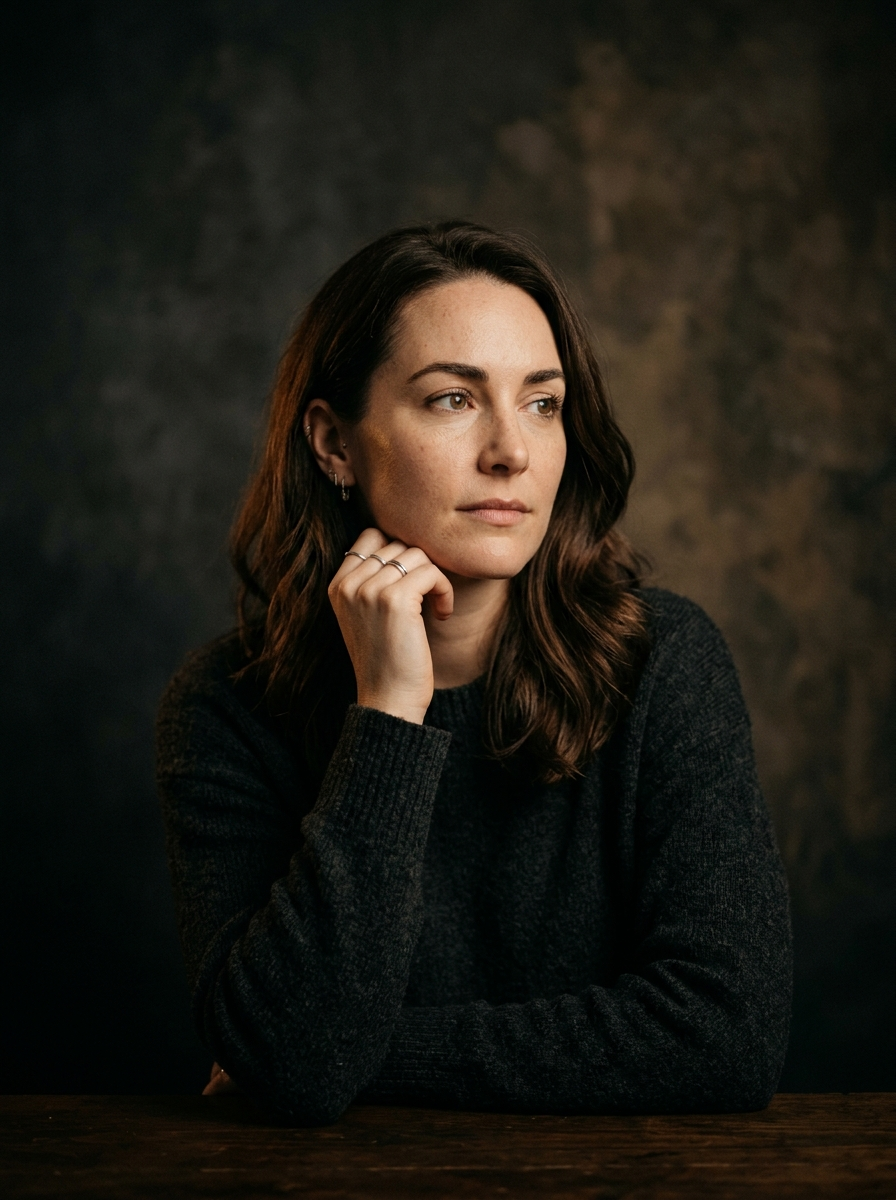
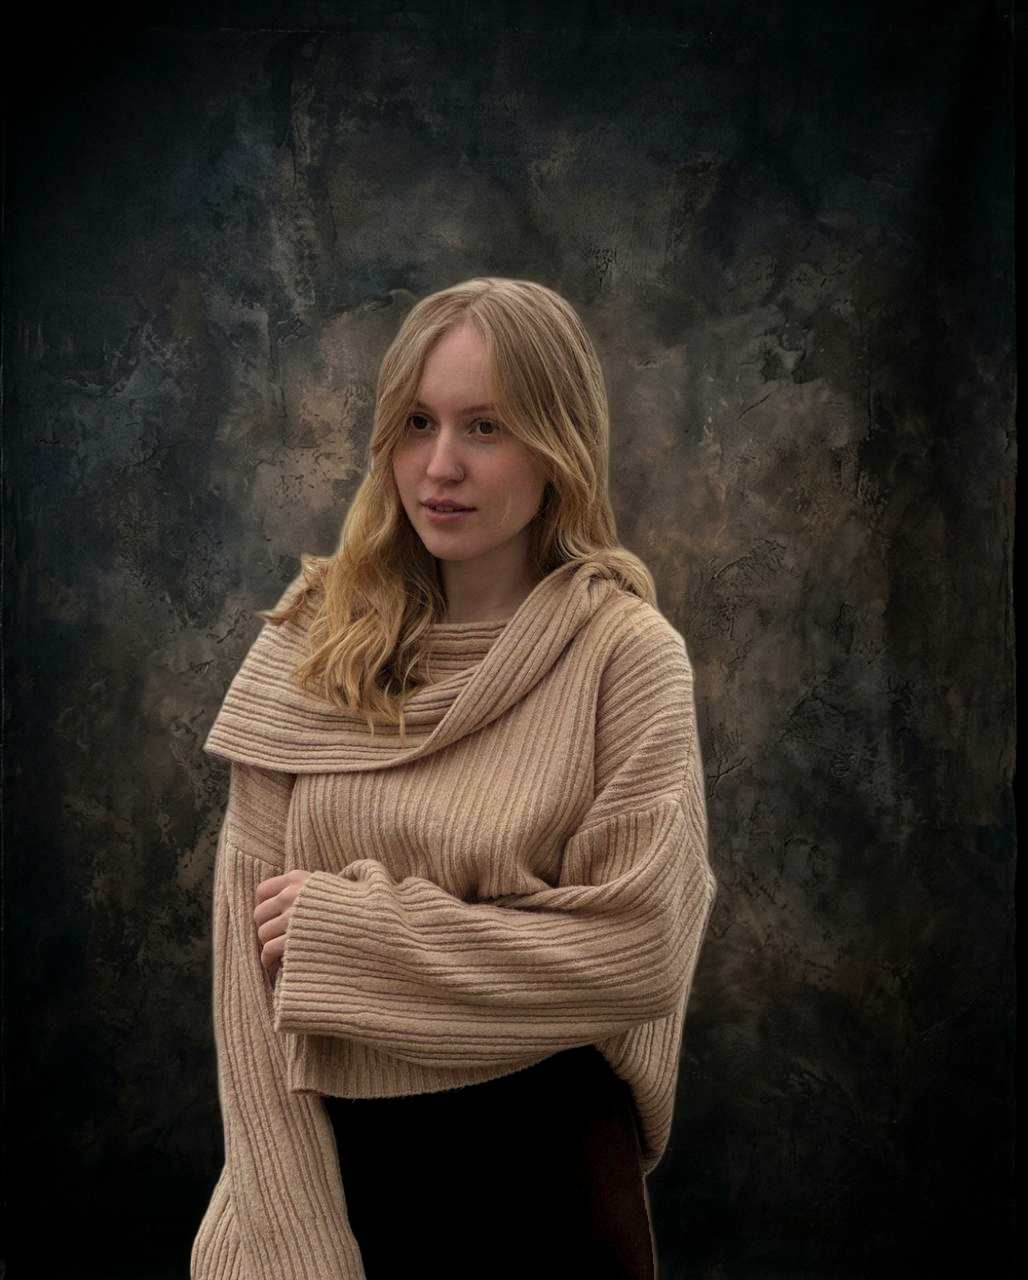
base 4

diff --git a/src/components/sections/HeroSection.css b/src/components/sections/HeroSection.css
@@ -137,13 +137,23 @@
   width: 100%;
   height: 520px;
   object-fit: cover;
+  object-position: center 15%;
   transition: transform 0.8s var(--ease-smooth);
 }
 
 @media (max-width: 768px) {
   .hero-image {
-    height: 380px;
+    height: 420px;
+    object-position: center 12%;
   }
+}
+
+.hero-image-frame::after {
+  content: '';
+  position: absolute;
+  inset: 0;
+  background: linear-gradient(to bottom, transparent 65%, rgba(21, 20, 18, 0.45) 100%);
+  pointer-events: none;
 }
 
 .hero-image-frame:hover .hero-image {

diff --git a/src/data/courseData.ts b/src/data/courseData.ts
@@ -212,7 +212,7 @@ export const COURSE_CONTENT = {
   },
   finalCta: {
     title: "Готова начать путь к себе?",
-    instruction: "Напиши мне «АГРЕССИЯ» в директ или перейди по ссылке в шапке профиля.",
-    ctaText: "Написать в директ"
+    instruction: "Нажимай на кнопку и приобретай полную версию курса.",
+    ctaText: "Купить курс"
   }
 };

diff --git a/scripts/composite_portrait.py b/scripts/composite_portrait.py
@@ -1,0 +1,78 @@
+import os
+import numpy as np
+from PIL import Image, ImageFilter, ImageEnhance
+from scipy.ndimage import gaussian_filter
+
+def main():
+    os.environ["U2NET_HOME"] = os.path.abspath(r".venv\rembg_cache")
+    import rembg
+
+    input_path = os.path.abspath(r"media\1-ref.jpg")
+    bg_path = os.path.abspath(r"C:\Users\KATANA\.gemini\antigravity-ide\brain\eee87493-89d6-460c-a387-4fd09dbec6cc\studio_backdrop_1789500942214.jpg")
+    output_path = os.path.abspath(r"public\assets\hero_portrait.jpg")
+
+    print(f"Loading subject: {input_path}")
+    orig_img = Image.open(input_path).convert("RGB")
+    width, height = orig_img.size
+
+    print(f"Loading backdrop: {bg_path}")
+    bg_img = Image.open(bg_path).convert("RGB")
+    bg_img = bg_img.resize((width, height), Image.Resampling.LANCZOS)
+
+    print("Extracting subject with rembg...")
+    rgba_subject = rembg.remove(orig_img)
+    subject_rgb = np.array(rgba_subject.convert("RGB"), dtype=np.float32)
+    alpha = np.array(rgba_subject.split()[-1], dtype=np.float32) / 255.0
+
+    # 1. Subtle warm color balance to harmonize overcast daylight with studio warm light
+    # Slightly enhance warmth in midtones (R: +4%, G: +1%, B: -3%)
+    warm_subject = subject_rgb.copy()
+    warm_subject[:, :, 0] = np.clip(warm_subject[:, :, 0] * 1.04, 0, 255)
+    warm_subject[:, :, 1] = np.clip(warm_subject[:, :, 1] * 1.01, 0, 255)
+    warm_subject[:, :, 2] = np.clip(warm_subject[:, :, 2] * 0.96, 0, 255)
+
+    # 2. Defringe edge pixels: on hair edges, sea foam tint can create a grey halo.
+    # Replace background color bleed in semi-transparent edges with hair tone
+    edge_mask = (alpha > 0.05) & (alpha < 0.92)
+    # Warm tone tint for fringe
+    hair_tint = np.array([165, 140, 110], dtype=np.float32)
+    warm_subject[edge_mask] = warm_subject[edge_mask] * 0.6 + hair_tint * 0.4
+
+    # 3. Ambient wrap lighting: subtle warm rim light on hair/shoulder contours
+    # Find boundary region of the subject
+    dilated_alpha = gaussian_filter(alpha, sigma=6)
+    rim_mask = np.clip(dilated_alpha - alpha, 0, 1)
+    # Filter rim mask to focus near upper body/hair
+    y_coords = np.linspace(1.0, 0.2, height)[:, None]
+    rim_mask = rim_mask * y_coords
+
+    # Studio ambient rim color (amber/bronze glow)
+    rim_color = np.array([210, 145, 80], dtype=np.float32)
+
+    # 4. Soft background contact shadow for 3D depth behind her
+    shadow_mask = gaussian_filter(alpha, sigma=25) * 0.45
+    bg_np = np.array(bg_img, dtype=np.float32)
+    # Apply shadow to background
+    for c in range(3):
+        bg_np[:, :, c] = bg_np[:, :, c] * (1.0 - shadow_mask)
+
+    # 5. Composite: Background + Shadow + Rim Light + Subject
+    alpha_3d = alpha[:, :, None]
+    final_np = bg_np * (1.0 - alpha_3d) + warm_subject * alpha_3d
+
+    # Add subtle rim light wrap onto edges
+    rim_3d = (rim_mask[:, :, None] * 0.35) * (1.0 - alpha_3d * 0.5)
+    final_np = np.clip(final_np + rim_color * rim_3d, 0, 255).astype(np.uint8)
+
+    final_img = Image.fromarray(final_np)
+
+    # Slight editorial contrast boost
+    enhancer = ImageEnhance.Contrast(final_img)
+    final_img = enhancer.enhance(1.05)
+
+    os.makedirs(os.path.dirname(output_path), exist_ok=True)
+    final_img.save(output_path, "JPEG", quality=96)
+    print(f"Composited portrait saved to {output_path}")
+
+if __name__ == '__main__':
+    main()
